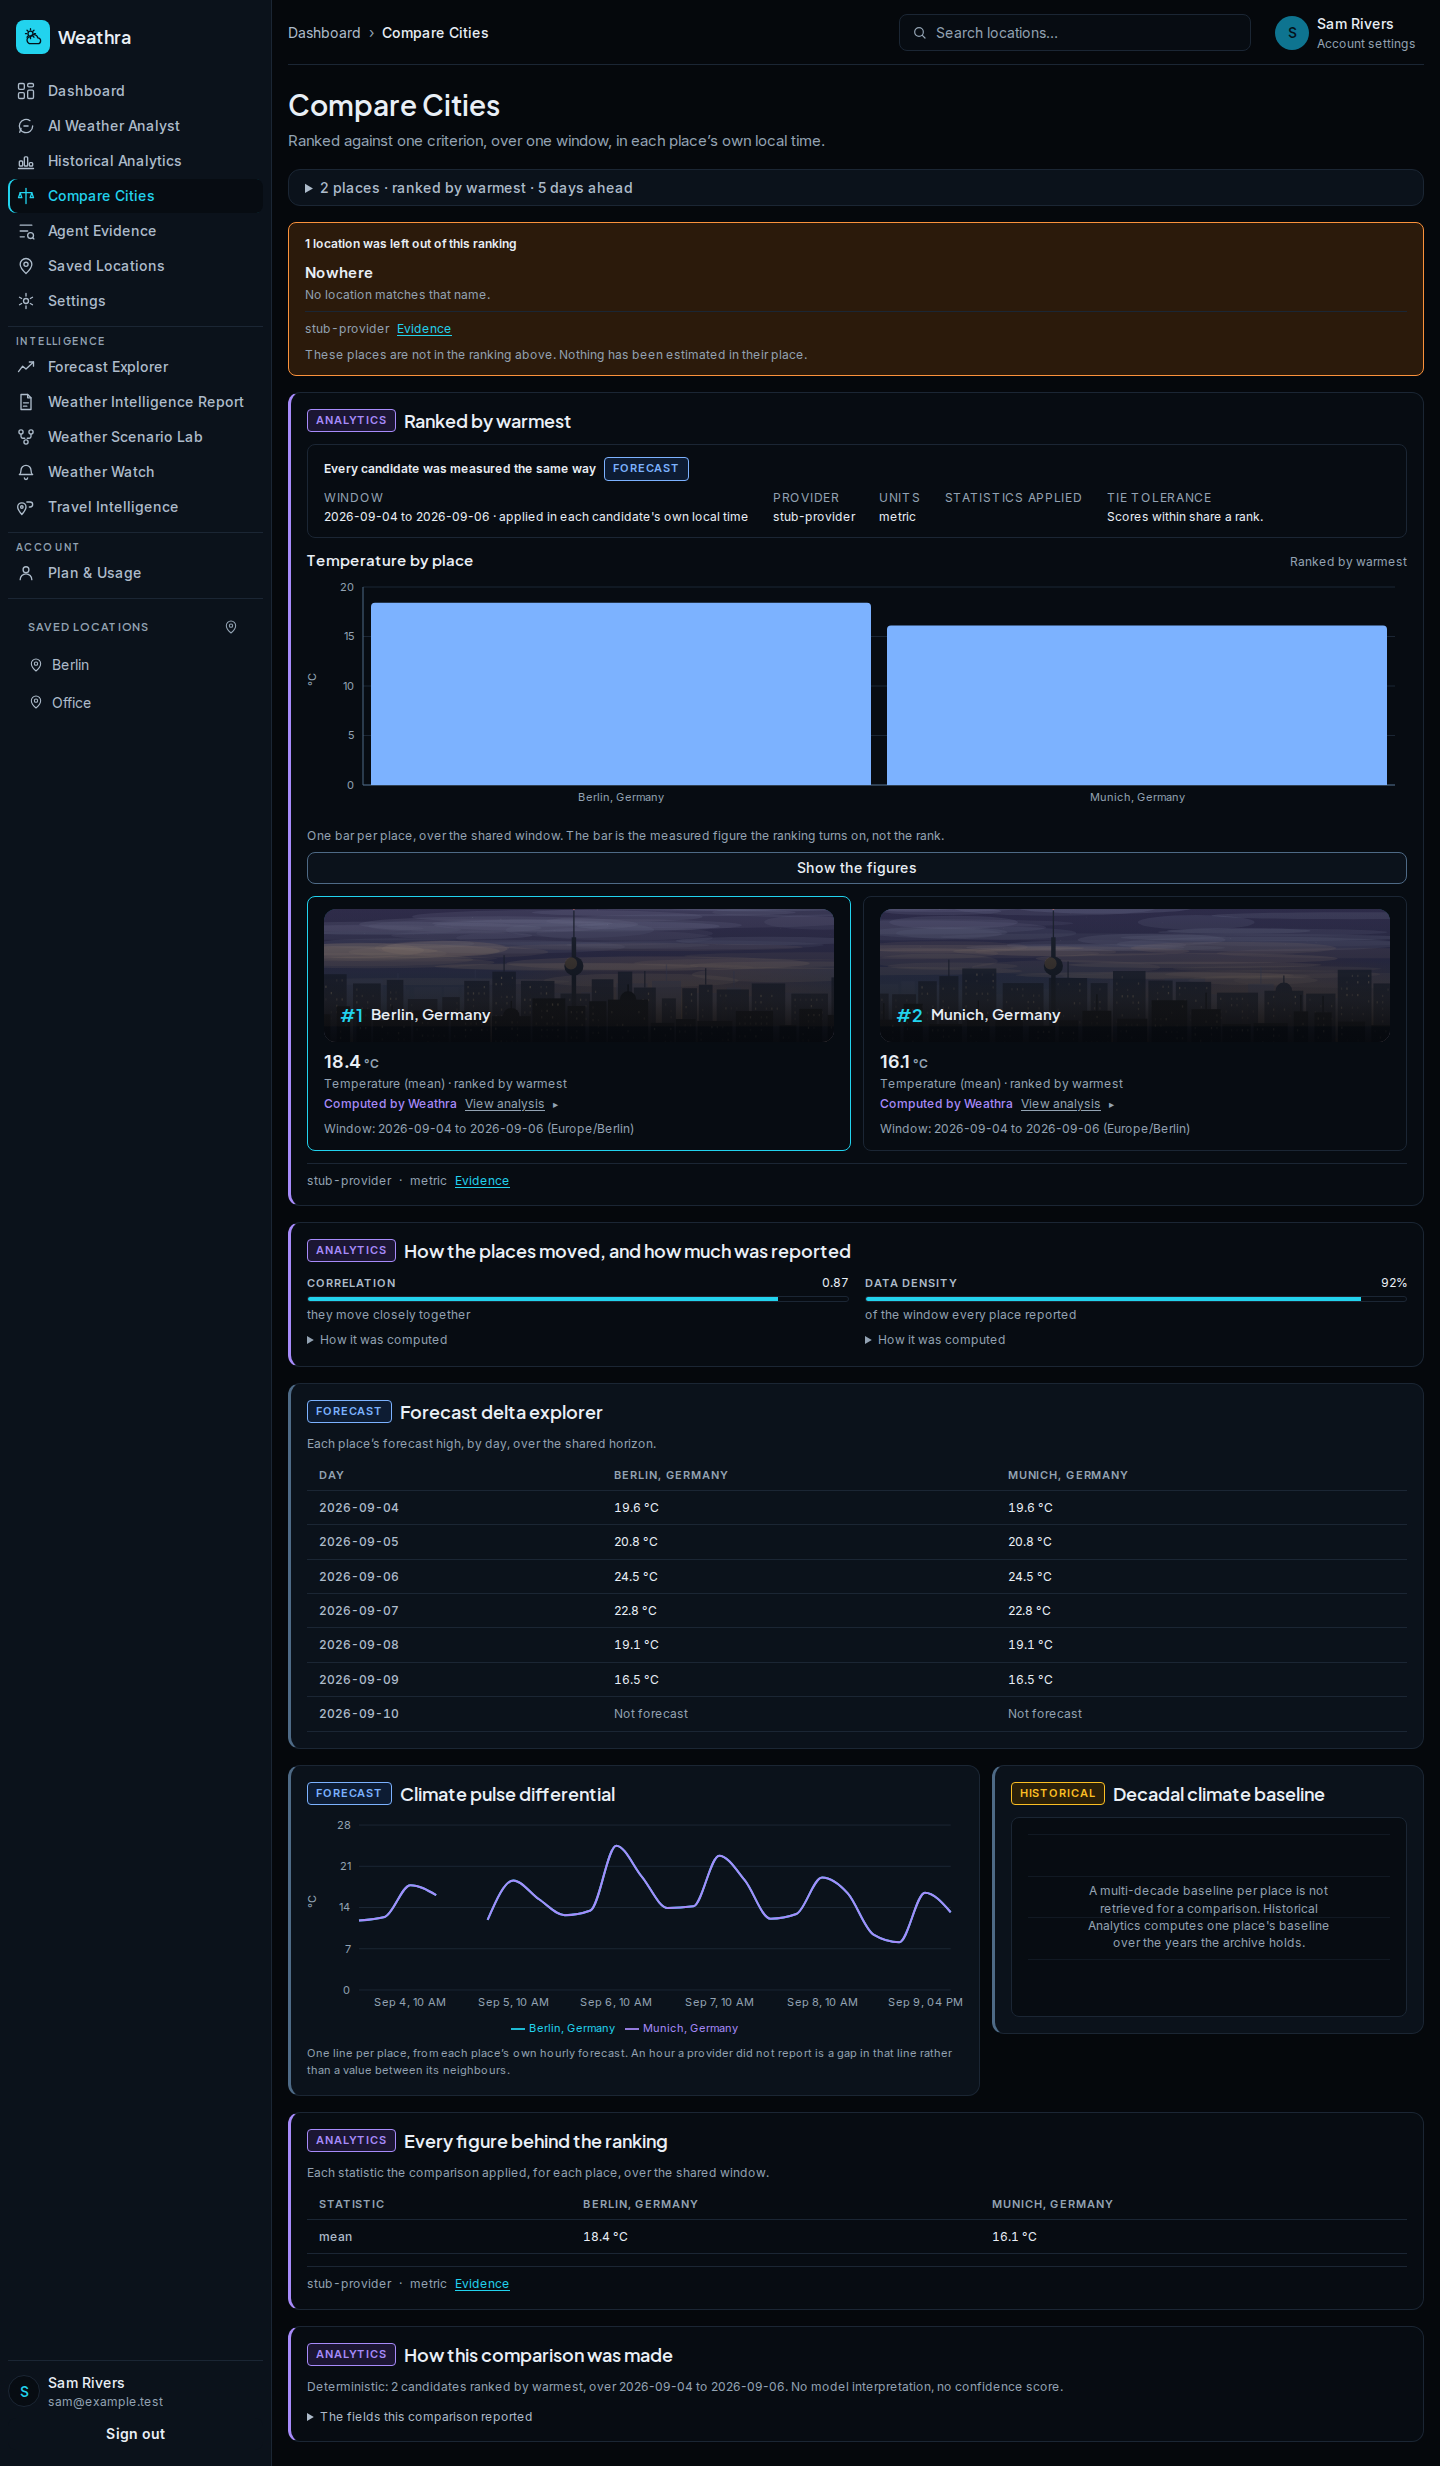
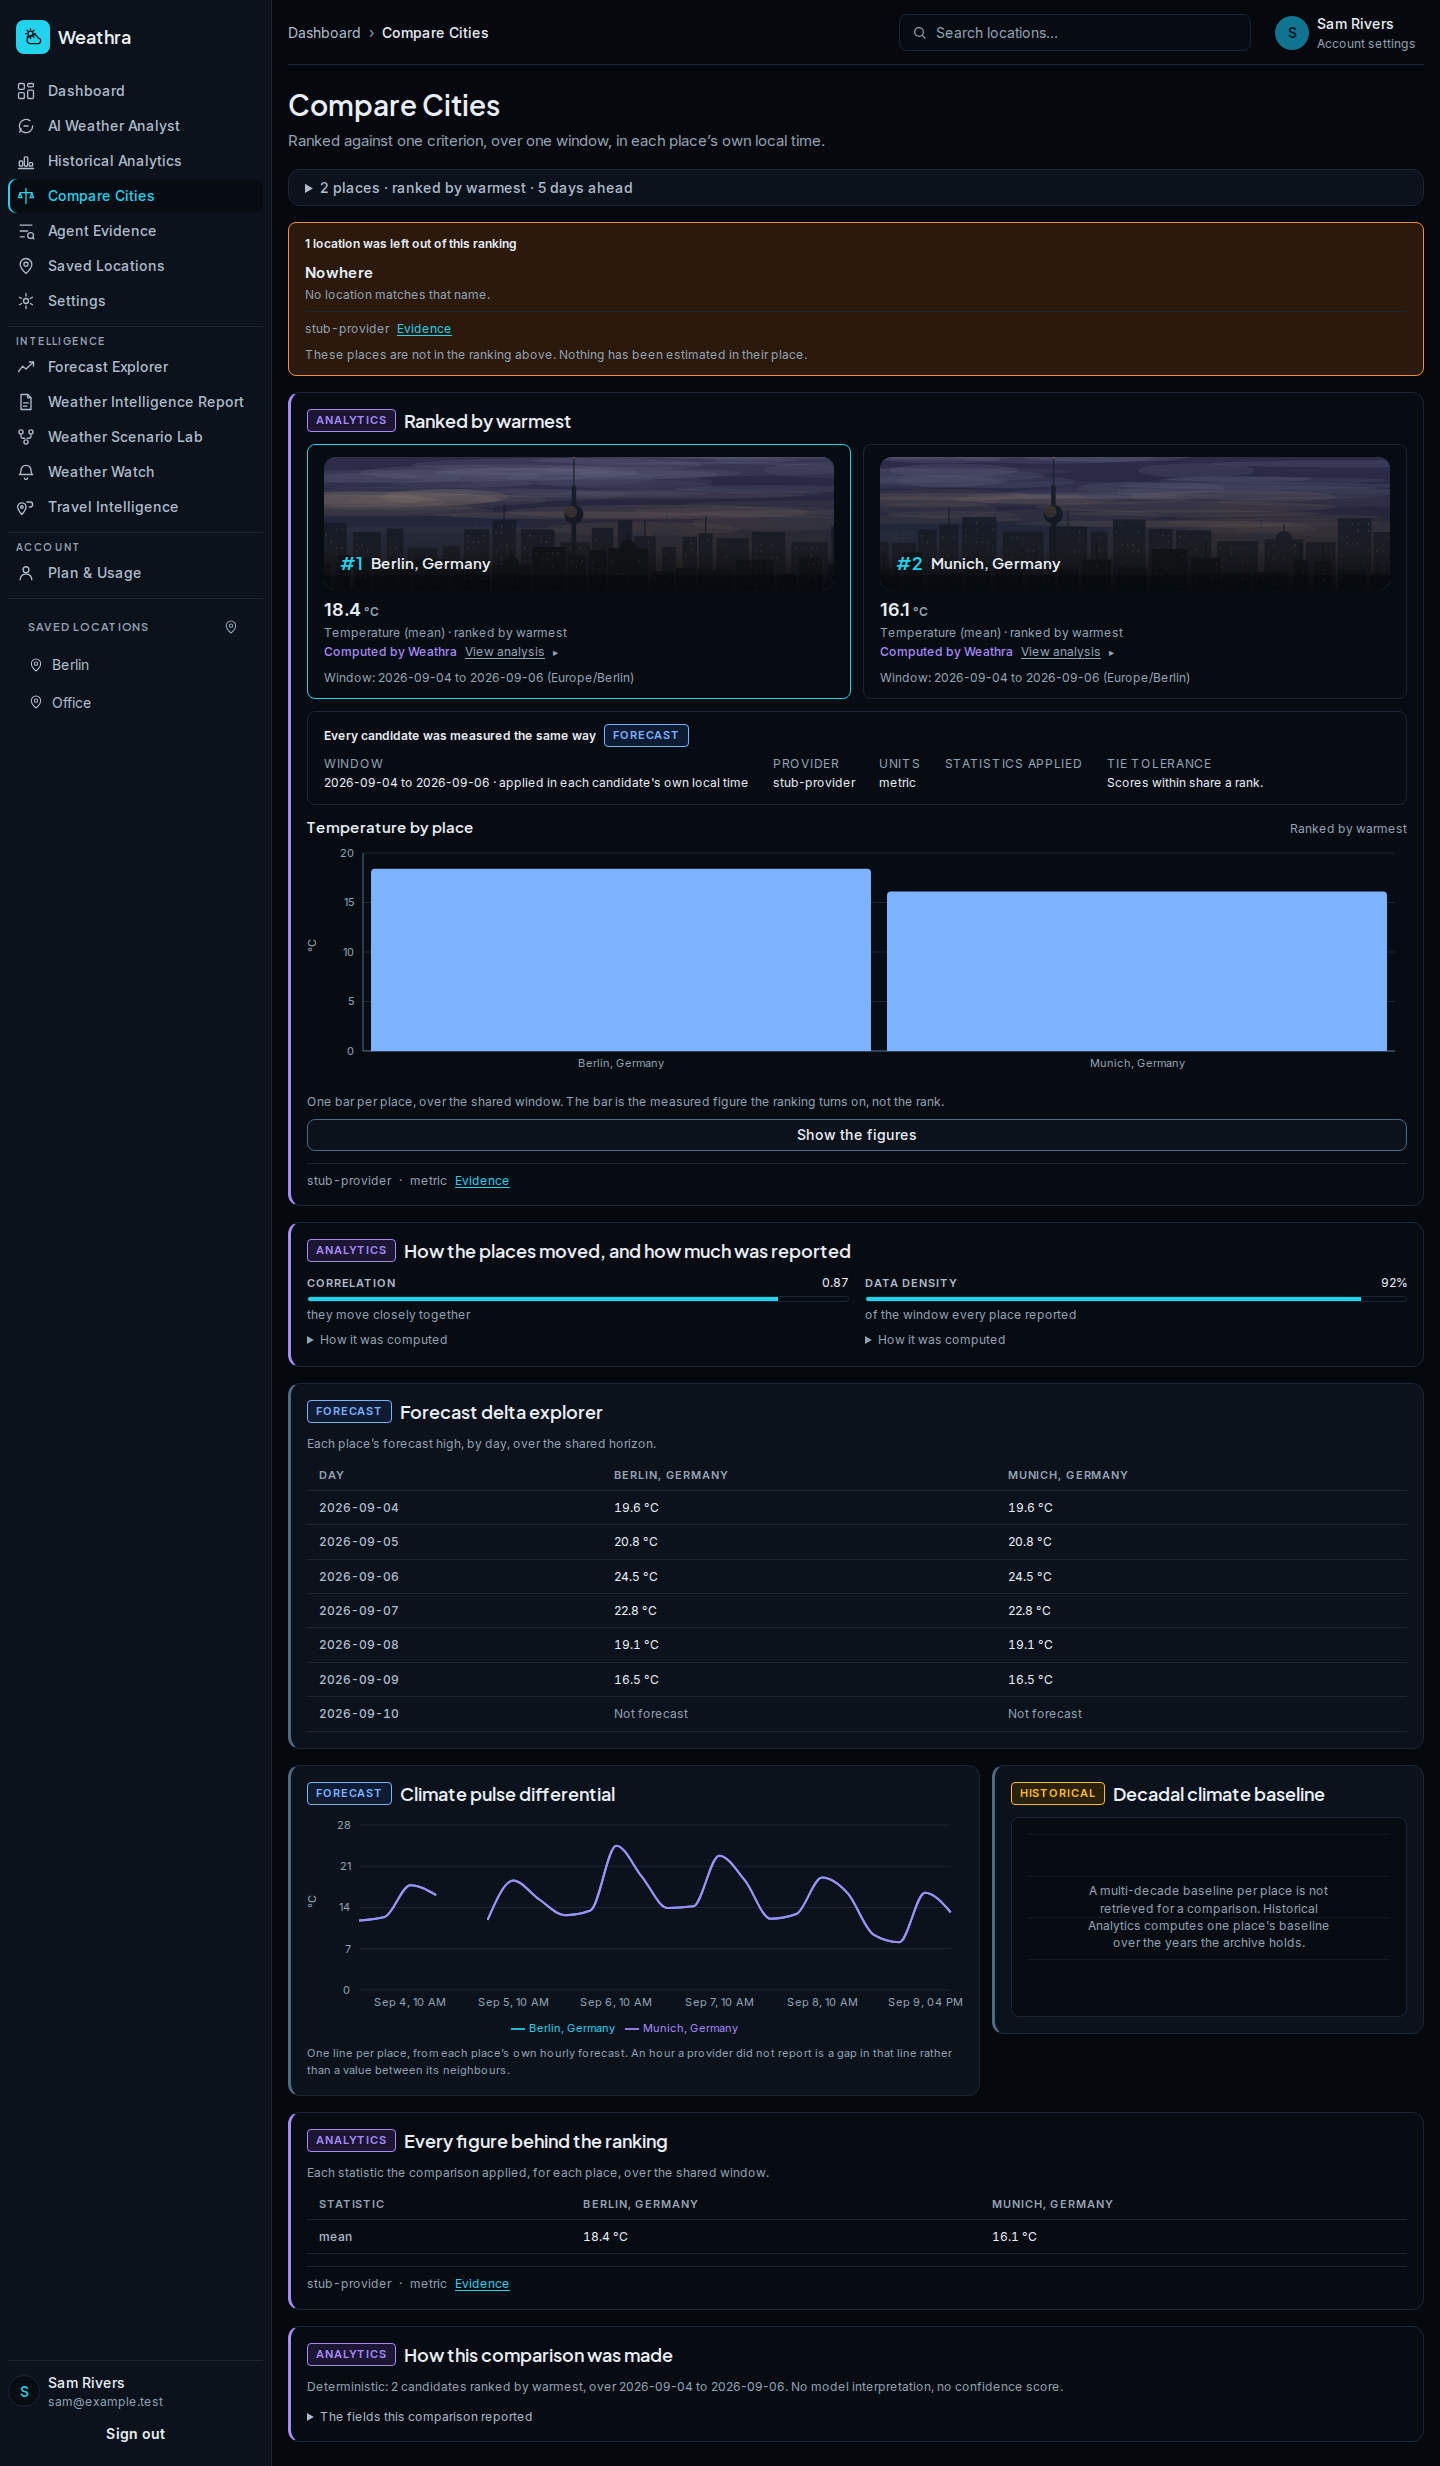
feat(compare): lead with the places, not with a chart of two bars
`04-compare-cities.png` opens with the two locations side by side, each with its own image,
temperature and conditions, and carries no ranking chart at the top at all. Production opened with a
full-width bar chart of two bars — a rendering of the same two numbers the cards already carry,
sized to dominate the screen and to push the places themselves below the fold.

The cards now come first and the chart follows them, with the shared basis, where it explains the
ranking instead of replacing it. Nothing is removed: the chart, the correlation and data-density
meters, the delta matrix and the per-statistic table are all still on the page, in the order the
artifact puts its own lower bands.

Changed region(s): [[0.2188, 0.1873, 0.9688, 0.4684]]

diff --git a/weathra/frontend/components/compare/sections.tsx b/weathra/frontend/components/compare/sections.tsx
@@ -299,8 +299,14 @@ export function Ranking({ result, children }: RankingProps): ReactNode {
         units: result.unit_system,
       }}
     >
-      {children}
-
+      {/*
+        **The places first, then the account of how they were ranked.** `04-compare-cities.png`
+        opens with the two locations side by side — each with its own image, temperature and
+        conditions — and carries no ranking chart at the top at all. Production opened with a
+        full-width bar chart of two bars, which is a rendering of the same two numbers the cards
+        already carry, sized to dominate the screen. The chart is not deleted: it moves under the
+        cards with the shared basis, where it explains the ranking rather than replacing it.
+      */}
       <div className={styles.candidates}>
         {byRank(result).map((candidate) => (
           <CandidateCard
@@ -311,6 +317,8 @@ export function Ranking({ result, children }: RankingProps): ReactNode {
           />
         ))}
       </div>
+
+      {children}
     </ProvenanceSection>
   );
 }
